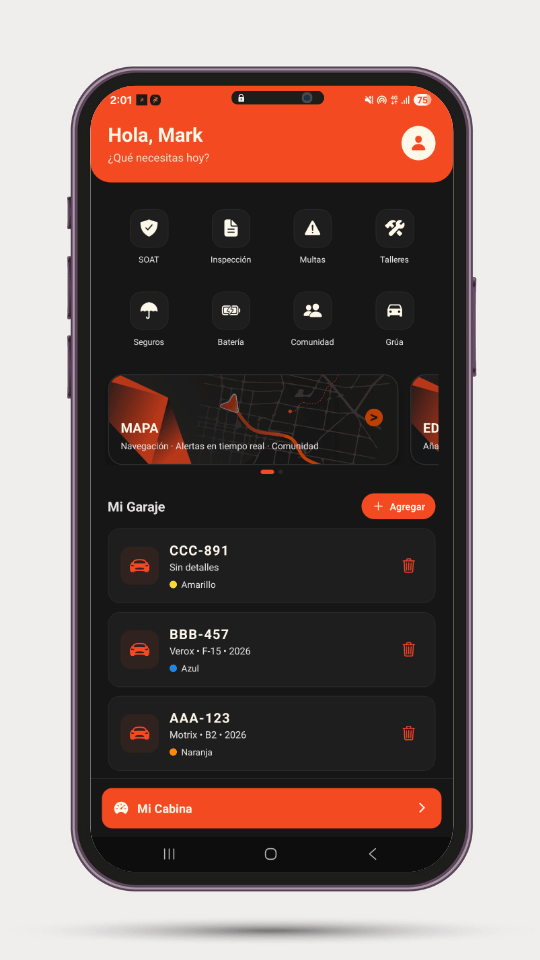
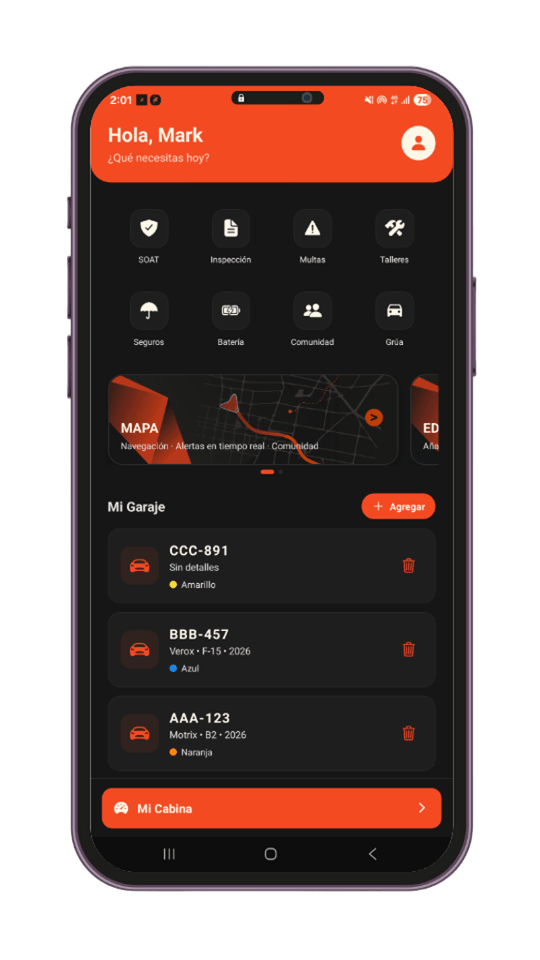
chore: actualiza documentos legales y asset mockup para despliegue

diff --git a/src/pages/PrivacyPolicy.jsx b/src/pages/PrivacyPolicy.jsx
@@ -189,10 +189,10 @@ export default function PrivacyPolicy() {
                 Ubicación en Segundo Plano (Background Location)
               </strong>{" "}
               se solicita por separado y es indispensable para que el motor de
-              alertas por voz y el Radar de Fotopapeletas (función PRO) funcionen
-              con la pantalla apagada o con la aplicación en segundo plano. Puede
-              revocar estos permisos en cualquier momento desde la configuración
-              de su dispositivo.
+              alertas por voz y el Radar de Fotopapeletas (función PRO)
+              funcionen con la pantalla apagada o con la aplicación en segundo
+              plano. Puede revocar estos permisos en cualquier momento desde la
+              configuración de su dispositivo.
             </p>
 
             <h3 className="mb-2 text-lg font-semibold text-white/90">
@@ -291,9 +291,9 @@ export default function PrivacyPolicy() {
                 únicamente para procesar los retiros de ganancias
               </strong>
               , prevenir el fraude financiero y cumplir obligaciones legales y
-              tributarias aplicables. No se utiliza con fines publicitarios ni se
-              cede a terceros ajenos al proceso de liquidación. Estos datos se
-              manejan bajo{" "}
+              tributarias aplicables. No se utiliza con fines publicitarios ni
+              se cede a terceros ajenos al proceso de liquidación. Estos datos
+              se manejan bajo{" "}
               <strong className="text-white">
                 estrictos estándares de seguridad
               </strong>{" "}
@@ -584,8 +584,8 @@ export default function PrivacyPolicy() {
                     </td>
                     <td className="py-2 pr-4">
                       Indispensable para el motor de alertas por voz y el Radar
-                      de Fotopapeletas (función PRO) con la pantalla apagada o la
-                      app en segundo plano
+                      de Fotopapeletas (función PRO) con la pantalla apagada o
+                      la app en segundo plano
                     </td>
                     <td className="py-2">No</td>
                   </tr>

diff --git a/src/pages/TermsOfService.jsx b/src/pages/TermsOfService.jsx
@@ -97,9 +97,7 @@ export default function TermsOfService() {
                 modifiquen radares fijos dentro de la Aplicación.
               </li>
               <li>
-                <strong className="text-white">
-                  Mapa de Navegación 3D:
-                </strong>{" "}
+                <strong className="text-white">Mapa de Navegación 3D:</strong>{" "}
                 Motor de navegación con mapa 3D, seguimiento GPS de alta
                 precisión, guía calle a calle y modo apaisado inteligente que
                 opera junto con las alertas de seguridad en tiempo real.